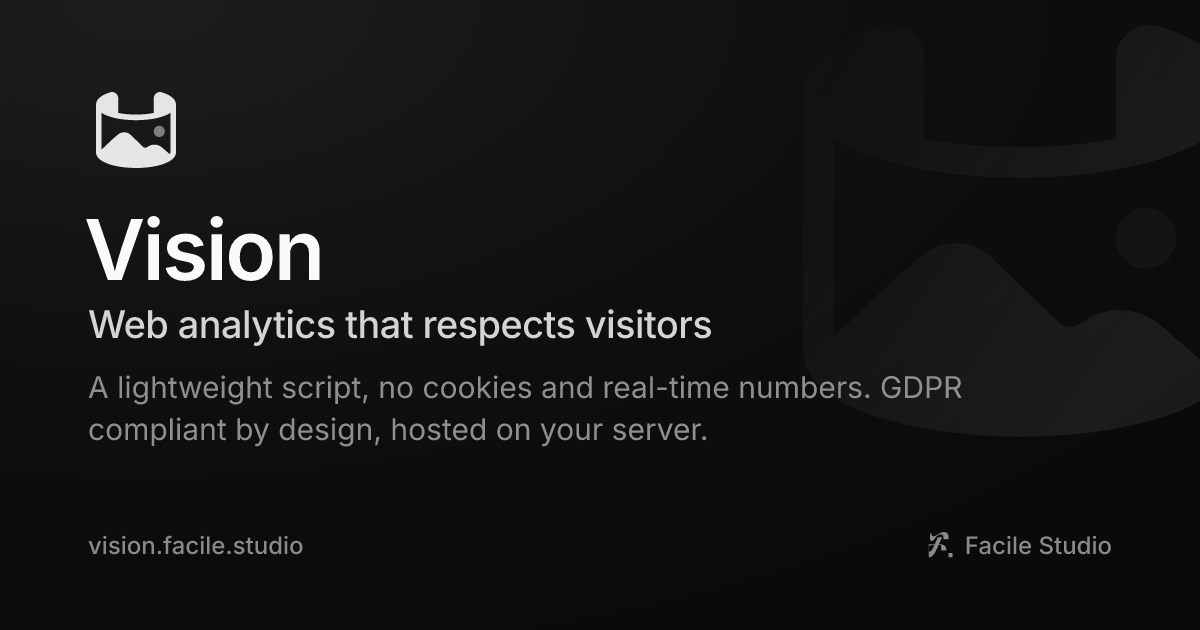
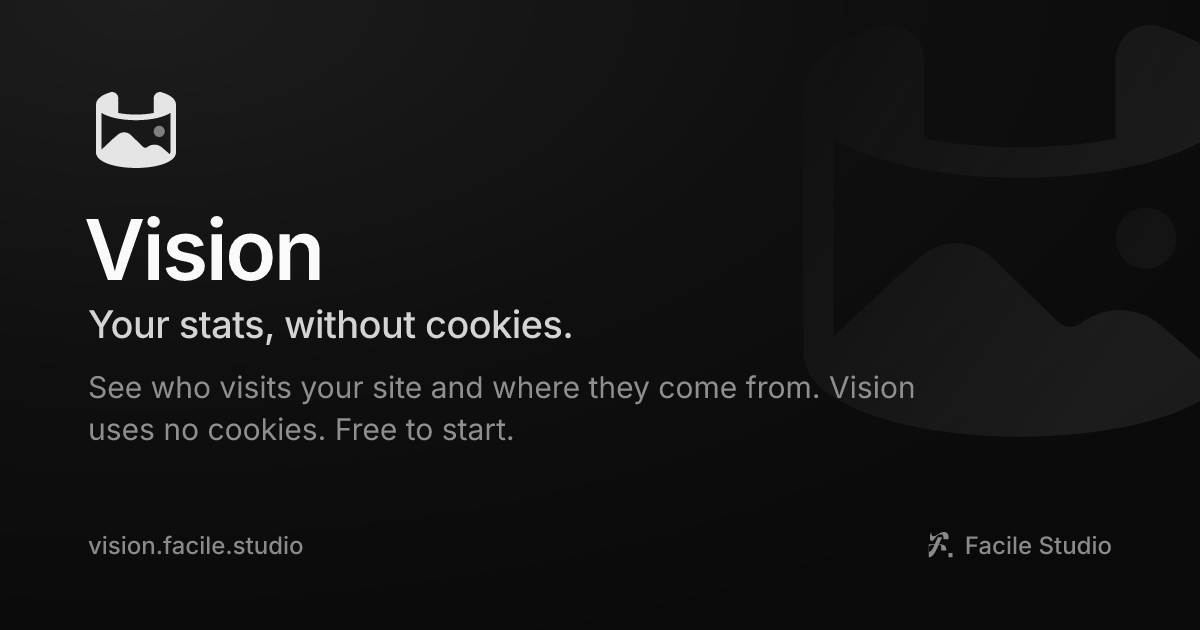
🐛 fix(client): replace the og image and manifest, bump muse to v0.25.1

Changed region(s): [[0.0617, 0.4825, 0.6167, 0.5429], [0.0617, 0.573, 0.8017, 0.6333], [0.0617, 0.6635, 0.5858, 0.7238]]

diff --git a/apps/client/src/app.html b/apps/client/src/app.html
@@ -4,7 +4,7 @@
 		<meta charset="utf-8" />
 		<meta name="viewport" content="width=device-width, initial-scale=1" />
 
-		<title>Vision · Your stats, without cookies</title>
+		<title>Vision · Your stats, without cookies.</title>
 		<meta name="description" content="See who visits your site and where they come from. Vision uses no cookies. Free to start." />
 		<link rel="icon" href="/favicon.svg" type="image/svg+xml" />
 		<link rel="icon" href="/favicon.ico" sizes="48x48" />
@@ -16,14 +16,14 @@
 		<meta property="og:site_name" content="Facile" />
 		<meta property="og:locale" content="en_US" />
 		<meta property="og:url" content="https://vision.facile.studio/" />
-		<meta property="og:title" content="Vision · Your stats, without cookies" />
+		<meta property="og:title" content="Vision · Your stats, without cookies." />
 		<meta property="og:description" content="See who visits your site and where they come from. Vision uses no cookies. Free to start." />
 		<meta property="og:image" content="https://vision.facile.studio/og-image.png" />
 		<meta property="og:image:width" content="1200" />
 		<meta property="og:image:height" content="630" />
-		<meta property="og:image:alt" content="Vision: your stats, without cookies" />
+		<meta property="og:image:alt" content="Vision: Your stats, without cookies." />
 		<meta name="twitter:card" content="summary_large_image" />
-		<meta name="twitter:title" content="Vision · Your stats, without cookies" />
+		<meta name="twitter:title" content="Vision · Your stats, without cookies." />
 		<meta name="twitter:description" content="See who visits your site and where they come from. Vision uses no cookies. Free to start." />
 		<meta name="twitter:image" content="https://vision.facile.studio/og-image.png" />
 
